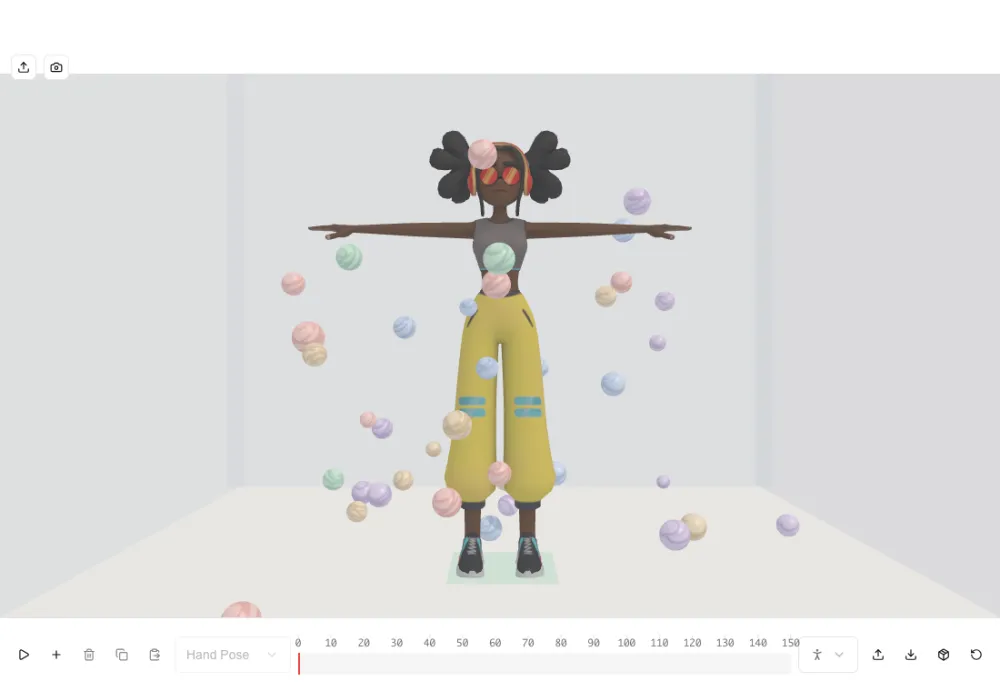
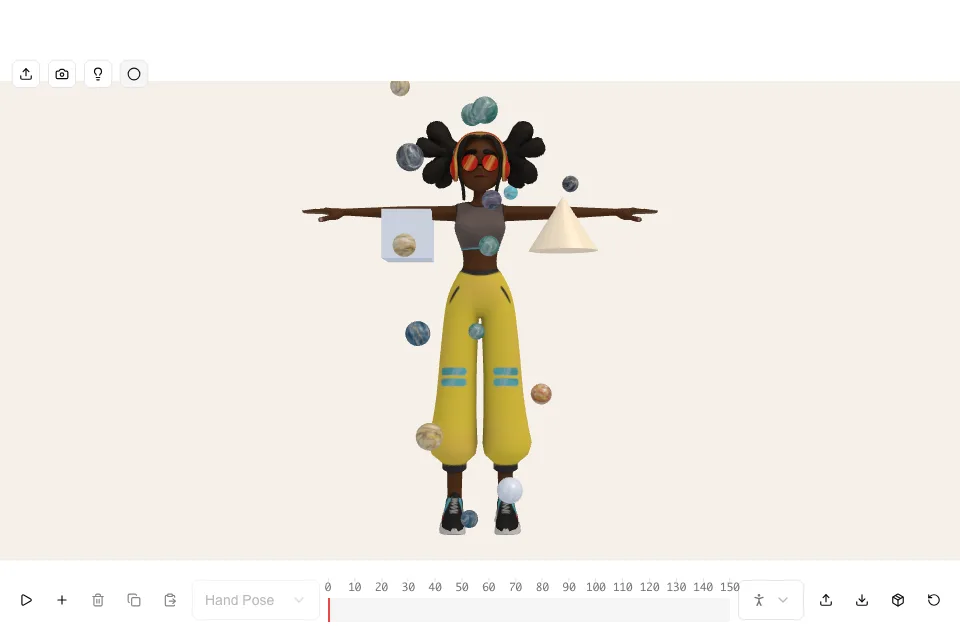
docs: capture real screenshots and video of the physics feature
The guide and the pull request had no visual proof of the marble flow, the
lamp or the spawn cube: a rendering issue in the Browser pane during earlier
verification meant screenshots came out blank, and that got dropped instead
of worked around. Captured properly this time with Playwright driving a real
headless Chromium against the dev server, per the documented capture
workflow: the docked controls row, the rig at rest with the lamp and cube
visible, marbles mid-fall, and a short clip of physics turning on through
the marble flow starting.

diff --git a/documentation/docs/guides/rig-animator.md b/documentation/docs/guides/rig-animator.md
@@ -111,7 +111,7 @@ A third docked button, Physics, sits beside these two. Once it is on, a fourth j
 Flow, which starts and stops the drip; dropping one on demand is a touch, not a button, covered
 in its own section below along with Physics.
 
-![Upload Model and Capture Pose from Camera docked at the top left of the canvas](/img/animation/rig-canvas-controls.webp)
+![Upload Model, Capture Pose from Camera and Physics docked at the top left of the canvas](/img/animation/rig-canvas-controls.webp)
 
 ## Picking and posing a bone
 
@@ -573,7 +573,7 @@ rather than a silhouette: a cupped hand catches marbles, a flat one does not, an
 timeline back sweeps them around as the limbs move through them. It mirrors the Config panel's
 own **Physics: Simulate** checkbox, the same toggle either way.
 
-![Marbles falling around the rig, several caught on its head, chest and arm, inside the pale enclosing walls](/img/animation/rig-physics-marbles.webp)
+![The rig in its rest pose with physics on: a cone-shaded lamp hanging beside its right arm and a touch-sensor cube beside its left](/img/animation/rig-physics-lamp-cube.webp)
 
 Turning physics on does not by itself drop anything: it builds the bone capsules, the enclosure,
 a heavy cone-shaded lamp hung close to the camera on a rigid pivot arm, and a cube on the rig's
@@ -583,6 +583,12 @@ collision response of its own, so posing a hand into it does not push it, but th
 overlaps it a marble drops, the same as pressing a spawn button would, except the model itself is
 what presses it. A fourth docked button, Marble Flow, joins Physics once it is on, starting and
 stopping the drip described below.
+
+<video controls loop muted playsinline width="720" src="/video/animation/rig-physics-demo.webm">
+  Physics is switched on: a lamp and a touch-sensor cube appear beside the rig's rest pose. Marble
+  Flow is switched on next, and marbles begin dropping from well above the frame, arriving one at
+  a time and catching on the rig's head and outstretched arms as more keep falling.
+</video>
 
 Every bone segment, meaning a bone and one of its bone children, gets a capsule sized to that
 segment's own length and to a radius scaled off the rig's spread, so the same settings hold for
@@ -625,7 +631,7 @@ The rest of the settings appear once the toggle is on:
   drawing anything, useful for looking at the rig unobstructed; solid is the useful one for a
   recording where the walls are the frame.
 
-![The same marbles settled into a heap across the floor, the rig standing untouched among them](/img/animation/rig-physics-settled.webp)
+![A dozen textured marbles mid-fall around the rig, several caught on its head, arm and hip, the lamp and spawn cube visible on either side](/img/animation/rig-physics-marbles.webp)
 
 Everything above is torn out of both the scene and the physics world the moment the toggle goes
 off, and rebuilt from scratch when a different model is loaded, so switching it on costs
